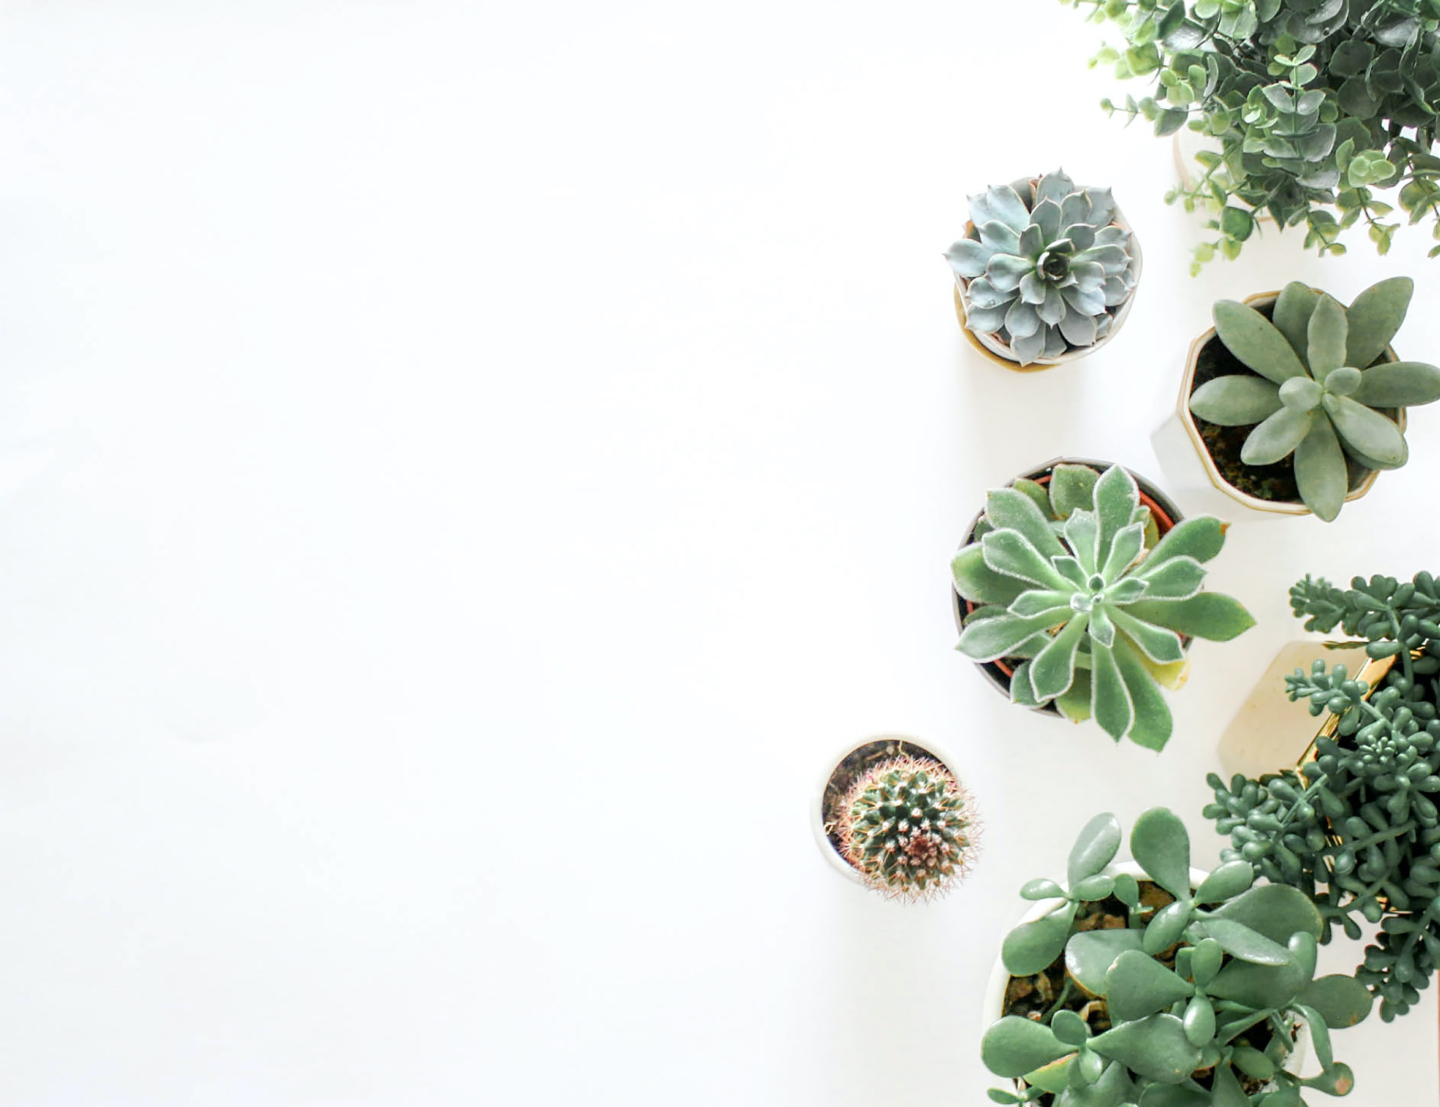
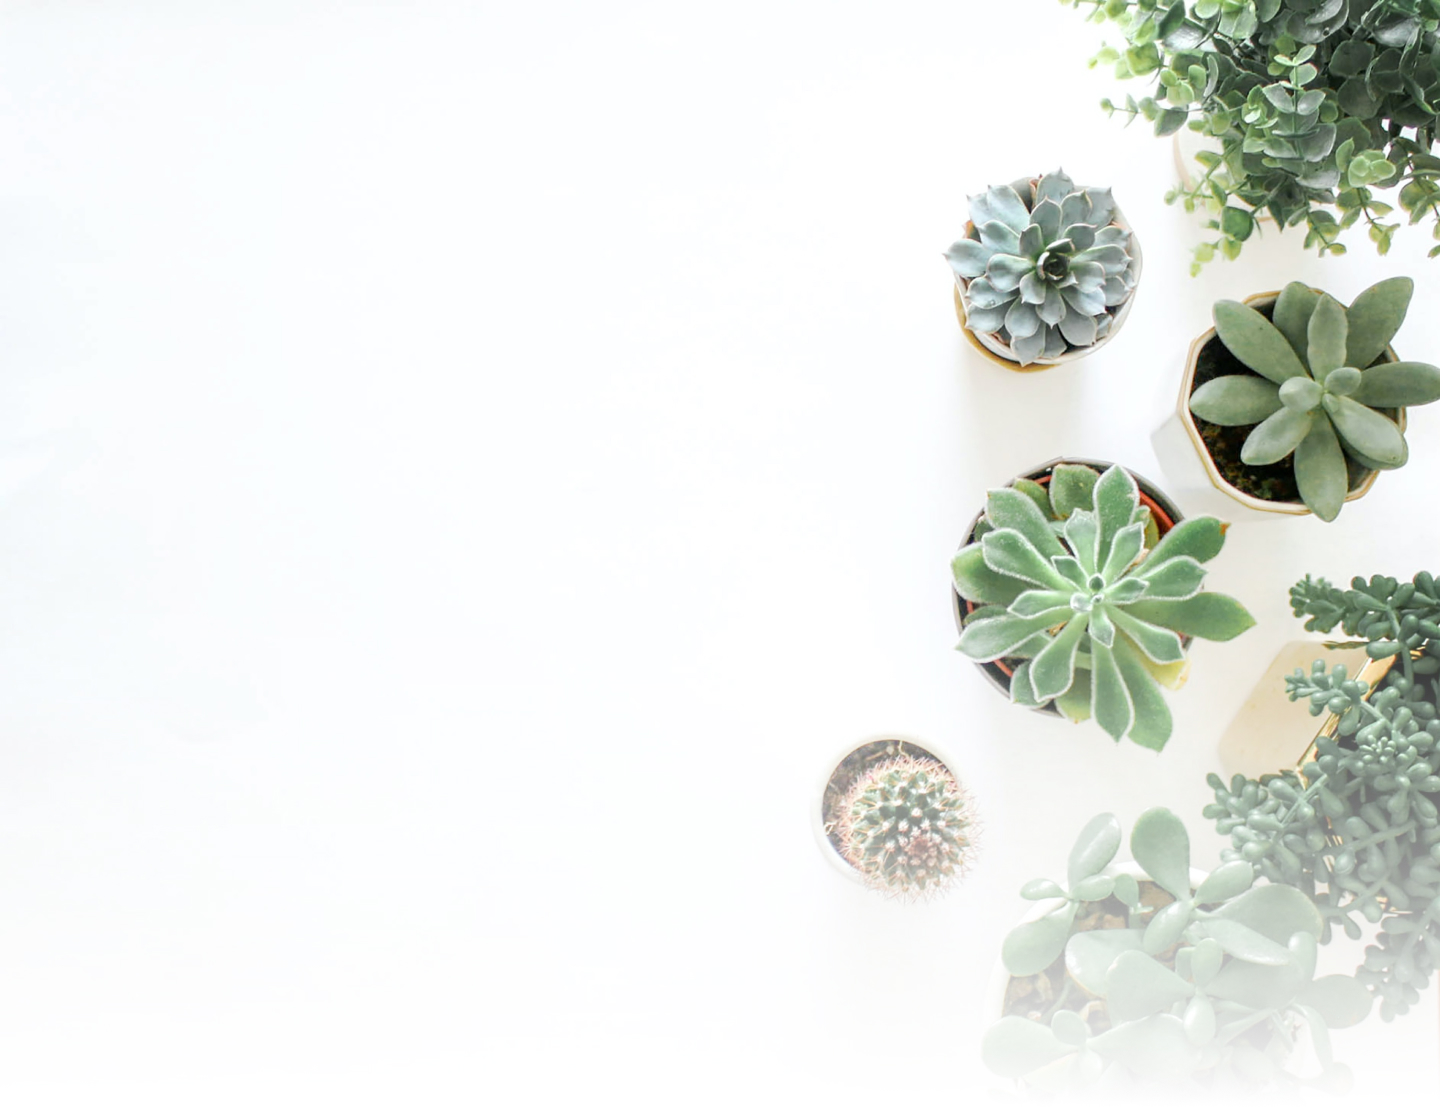
some style things and tweaks, looking pretty functional

Changed region(s): [[0.6562, 0.5221, 1.0, 1.0], [0.5625, 0.645, 0.6875, 0.8293], [0.6875, 0.5528, 0.875, 0.6757]]

diff --git a/src/components/Cart.js b/src/components/Cart.js
@@ -23,7 +23,15 @@ function Checkout(props) {
                     <h4>{item.title}</h4>
                   </Link>
                   <p>${item.price}</p>
-                  <div>
+                  <div className="quantity-adjust">
+                    <button
+                      onClick={() =>
+                        cart.update({ action: 'remove', product: item })
+                      }
+                    >
+                      –
+                    </button>
+                    <span>{quantity}</span>
                     <button
                       className="add-cart-btn"
                       onClick={() =>
@@ -31,14 +39,6 @@ function Checkout(props) {
                       }
                     >
                       +
-                    </button>
-                    <span>{quantity}</span>
-                    <button
-                      onClick={() =>
-                        cart.update({ action: 'remove', product: item })
-                      }
-                    >
-                      –
                     </button>
                   </div>
                   <p>${item.price * quantity}</p>

diff --git a/src/index.css b/src/index.css
@@ -62,25 +62,28 @@ button:hover {
 }
 
 #body-container {
-  min-height: 80vh;
   margin-top: 6rem;
   padding: 0 1rem;
+  min-height: calc(90vh - 6rem);
 }
 
 #footer {
-  background: salmon;
+  background: #f6cfb2;
   text-align: center;
-  padding: 5vh 1rem 8vh;
   z-index: 1;
   position: relative;
+  clip-path: polygon(0% 50%, 50% 0%, 100% 50%, 100% 100%, 0% 100%);
+}
+
+#footer > div {
+  padding: 8rem 0 7rem;
 }
 
 .hero {
-  padding: 30vh 2rem;
+  padding: 30vh 0;
 }
 
 .hero-bg-img {
-  outline: 10px solid;
   position: absolute;
   top: 0;
   bottom: 0;
@@ -88,7 +91,7 @@ button:hover {
   right: 0;
   z-index: 0;
   background-repeat: no-repeat;
-  background-position: center center;
+  background-position: bottom center;
   background-size: cover;
 }
 .hero-content {

diff --git a/src/components/cart.css b/src/components/cart.css
@@ -23,3 +23,7 @@
   height: auto;
   display: inline;
 }
+
+.quantity-adjust span {
+  margin: 0 0.5rem;
+}

diff --git a/src/components/checkout.css b/src/components/checkout.css
@@ -3,7 +3,6 @@
 }
 
 .checkout-form {
-  outline: 1px solid;
   margin: 2rem auto;
   max-width: 80%;
 }
